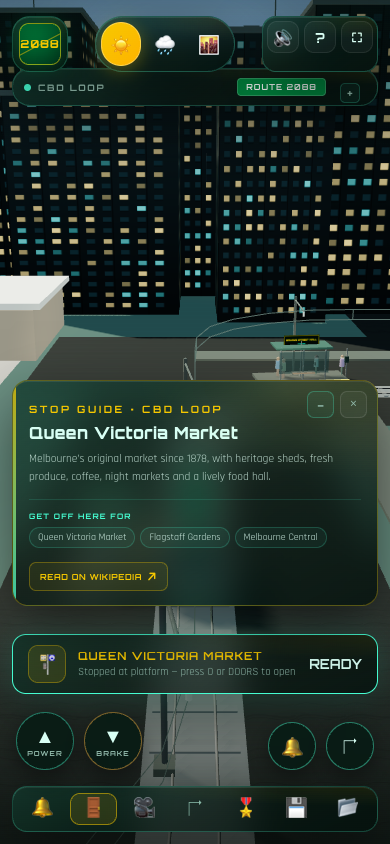
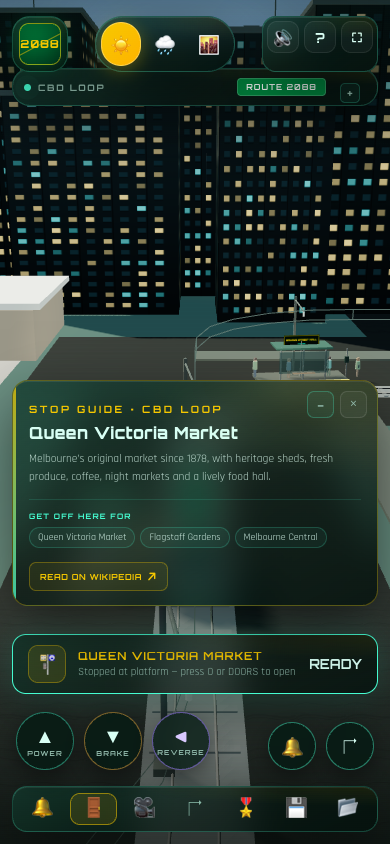
feat: separate brake from reverse with brake priority

diff --git a/index.html b/index.html
@@ -24,7 +24,7 @@
   <link rel="preconnect" href="https://fonts.googleapis.com" />
   <link rel="preconnect" href="https://fonts.gstatic.com" crossorigin />
   <link href="https://fonts.googleapis.com/css2?family=Orbitron:wght@500;700;900&family=Rajdhani:wght@400;500;600;700&display=swap" rel="stylesheet" />
-  <link rel="stylesheet" href="style.css?v=1.1.0" />
+  <link rel="stylesheet" href="style.css?v=1.1.1" />
 </head>
 <body>
   <div id="app">
@@ -219,6 +219,7 @@
       <div class="touch-pad" aria-label="Tram controls">
         <button class="touch-btn touch-throttle" data-key="ArrowUp" aria-label="Throttle">▲<small>POWER</small></button>
         <button class="touch-btn touch-brake" data-key="ArrowDown" aria-label="Brake">▼<small>BRAKE</small></button>
+        <button class="touch-btn touch-reverse" data-key="r" aria-label="Reverse">◀<small>REVERSE</small></button>
       </div>
       <div class="touch-side">
         <button class="touch-btn touch-bell" data-action="bell" aria-label="Ring bell">🔔</button>
@@ -272,7 +273,7 @@
         <div class="help-grid">
           <section>
             <h3>Drive</h3>
-            <p><kbd>W</kbd>/<kbd>↑</kbd> apply traction. <kbd>S</kbd>/<kbd>↓</kbd> brake, then reverse. The tram is rail-guided — it steers itself. Slow for curves or the wheels will sing.</p>
+            <p><kbd>W</kbd>/<kbd>↑</kbd> apply traction. <kbd>S</kbd>/<kbd>↓</kbd> brake to a stop and hold. Hold <kbd>R</kbd> or the <b>REVERSE</b> button to back up; the brake always overrides reverse. The tram is rail-guided — it steers itself. Slow for curves or the wheels will sing.</p>
             <h3>Serve stops</h3>
             <p>Each stop has a glowing platform marker. Roll in below 2 km/h inside the zone, then press <kbd>O</kbd> or the <b>Doors</b> toolbar button to release the doors. Passenger boarding, Myki beeps and the stop announcement follow. Press <kbd>O</kbd> again to close the doors before departing.</p>
             <h3>Bell</h3>
@@ -368,6 +369,6 @@
   <script src="https://cdnjs.cloudflare.com/ajax/libs/three.js/r128/three.min.js"></script>
   <script src="https://cdn.jsdelivr.net/npm/three@0.128.0/examples/js/controls/OrbitControls.js"></script>
   <script src="https://cdnjs.cloudflare.com/ajax/libs/cannon.js/0.6.2/cannon.min.js"></script>
-  <script src="script.js?v=1.1.0"></script>
+  <script src="script.js?v=1.1.1"></script>
 </body>
 </html>

diff --git a/script.js b/script.js
@@ -11,7 +11,7 @@
      Constants
      ------------------------------------------------------------------------ */
 
-  const VERSION = '1.1.0';
+  const VERSION = '1.1.1';
   const SAVE_KEY = 'tramtracker_2088_v1';
   const SAVE_FILE = 'tramtracker_save.json';
   const APP_NAME = 'TramTracker 2088';
@@ -1408,7 +1408,7 @@
       if (tag === 'INPUT' || tag === 'TEXTAREA' || tag === 'SELECT') return;
 
       const key = e.key;
-      const drivingKeys = ['ArrowUp', 'ArrowDown', 'ArrowLeft', 'ArrowRight', ' ', 'w', 'a', 's', 'd', 'W', 'A', 'S', 'D'];
+      const drivingKeys = ['ArrowUp', 'ArrowDown', 'ArrowLeft', 'ArrowRight', ' ', 'w', 'a', 's', 'd', 'r', 'W', 'A', 'S', 'D', 'R'];
       if (drivingKeys.includes(key)) e.preventDefault();
 
       if (this.hookActive) {
@@ -4952,14 +4952,25 @@
 
       const doorsLocked = this.trip.doorState !== 'closed';
       const throttle = !doorsLocked && (this.keys.ArrowUp || this.keys.w || this.keys.W);
-      const brake = this.keys.ArrowDown || this.keys.s || this.keys.S || doorsLocked;
+      const braking = this.keys.ArrowDown || this.keys.s || this.keys.S;
+      const reverse = !doorsLocked && !braking && (this.keys.r || this.keys.R);
+      const brake = braking || doorsLocked;
       const handbrake = this.keys[' '];
 
       let speed = this.tram.speed;
       if (throttle) speed += 1.95 * dt;
-      if (brake) speed -= (speed > 0 ? 4.6 : 1.7) * dt;
+      if (brake) {
+        // Brake toward zero from either direction; it never pushes into reverse.
+        const rate = Math.abs(speed) > 0.1 ? 4.6 : 1.7;
+        speed -= Math.sign(speed) * rate * dt;
+        if (Math.abs(speed) < 0.06) speed = 0;
+      } else if (reverse) {
+        // Reverse is a separate control: shed forward speed first, then back up.
+        if (speed > 0.05) speed -= 4.6 * dt;
+        else speed -= 1.45 * dt;
+      }
       if (handbrake) speed *= Math.pow(0.015, dt);
-      if (!throttle && !brake && !handbrake) speed *= Math.pow(0.55, dt);
+      if (!throttle && !brake && !reverse && !handbrake) speed *= Math.pow(0.55, dt);
       speed = clamp(speed, this.tram.maxReverse, this.tram.maxSpeed);
       if (Math.abs(speed) < 0.02) speed = 0;
       if (doorsLocked) {

diff --git a/style.css b/style.css
@@ -764,6 +764,7 @@ kbd {
 }
 .touch-throttle { border-color: rgba(70, 255, 211, 0.4); }
 .touch-brake { border-color: rgba(255, 179, 64, 0.45); }
+.touch-reverse { border-color: rgba(157, 123, 255, 0.55); color: #d9c8ff; }
 .touch-bell, .touch-hook { width: 54px; height: 54px; font-size: 18px; }
 
 /* --------------------------------------------------------------------------

diff --git a/STATE.md b/STATE.md
@@ -4,8 +4,8 @@
 | --- | --- |
 | Project | TramTracker 2088 — Melbourne Yarra Trams 3D Simulator (`tramtracker-2088`) |
 | Started | 2026-11-01 16:59:53 UTC |
-| Packaged | 2026-11-01 22:11:00 UTC |
-| Duration | **5h 10m 37s** (18,637 seconds) |
+| Packaged | 2026-11-01 22:44:30 UTC |
+| Duration | **5h 44m 25s** (20,665 seconds) |
 | Harness | OpenCode 2.2.5 |
 | Model | DeepSeek V4.1 Flash (`opencode-go/deepseek-v4.1-flash`) |
 | Session | `ses_e67f25924ffeV87ZCfDRsei45y` |
@@ -16,15 +16,15 @@
 
 | Metric | Tokens |
 | --- | ---: |
-| Input | 1,289,744 |
-| Output | 305,607 |
-| Reasoning | 451,714 |
-| **Total (input + output + reasoning)** | **2,047,065** |
-| Cache read | 219,630,976 |
+| Input | 1,321,705 |
+| Output | 316,059 |
+| Reasoning | 456,698 |
+| **Total (input + output + reasoning)** | **2,094,462** |
+| Cache read | 227,545,472 |
 | Cache write | 1,190 |
-| Total including cache | 221,678,041 |
+| Total including cache | 229,639,934 |
 
-> Snapshot taken from the OpenCode session record when the project was packaged at 2026-11-01 22:11:00 UTC. It includes the original build, track/cab/doors/announcement/CBD work, stop guides, city ambience, passenger manifests, stop requests, tourist stops, the 1.35 km St Kilda Road/Shrine extension with 21 respaced stops, mobile panel controls and the door interlock. The final state-file commit, push, Pages re-verification and closing response happen outside this snapshot, so the live session totals will be marginally higher. Total cost reported by the session: **$0.00**.
+> Snapshot taken from the OpenCode session record when the project was packaged at 2026-11-01 22:44:30 UTC. It includes the original build, track/cab/doors/announcement/CBD work, stop guides, city ambience, passenger manifests, stop requests, tourist stops, the 1.35 km St Kilda Road/Shrine extension with 21 respaced stops, mobile panel controls and the door interlock. The final state-file commit, push, Pages re-verification and closing response happen outside this snapshot, so the live session totals will be marginally higher. Total cost reported by the session: **$0.00**.
 
 ## Revisions after the first package
 
@@ -35,7 +35,8 @@
 5. **Stop guides, soundscape and names** — added nearby-place/Wikipedia stop cards, richer layered city ambience, actual Melbourne stop names and double-faced stop signs.
 6. **Passengers and tourist stops** — added destination manifests, pull-the-cord stop requests, alighting animations and more tourist stops.
 7. **1.35 km Shrine extension** — rebuilt the loop around St Kilda Road, Kings Domain and the Shrine of Remembrance, respaced all 21 stops to at least 30 m, added two tram bridges and kept buildings clear of the track.
-8. **Mobile panels and door interlock** — added minimizable telemetry/stop-guide panels and a persistent door warning that blocks traction until the doors close. Self-tests increased to 32 checks.
+8. **Mobile panels and door interlock** — added minimizable telemetry/stop-guide panels and a persistent door warning that blocks traction until the doors close.
+9. **Separate brake and reverse** — braking now stops and holds at zero; reverse is its own `R`/REVERSE control, and the brake always takes priority over reverse. Self-tests remain at 32 checks.
 
 ## What was built
 
@@ -51,7 +52,7 @@ A complete, self-contained 3D tram simulator in three modular source files plus 
 - **Rails and catenary** — 1.35 km closed CBD and Shrine loop, two embedded steel rails, sleepers, contact and messenger wires, droppers and poles.
 - **W-Class / Cyber-Tram 2088** — green hull, cream roof, gold waistline, window band, destination signs, headlights, bogies, pantograph, neon underglow and a bell.
 - **Cannon.js physics** — 12,000 kg dynamic tram body, static collision volumes, contact events, rail-following velocity, acceleration, braking, curve drag and impact penalties.
-- **Keyboard/touch controls** — `W`/`↑` traction, `S`/`↓` brake and reverse; rail guidance is automatic; mouse/touch orbit camera; `C` recentre.
+- **Keyboard/touch controls** — `W`/`↑` traction, `S`/`↓` brake to a stop, and a separate `R`/REVERSE control; the brake overrides reverse. Rail guidance is automatic; mouse/touch orbit camera; `C` recentre.
 - **First-person driver's cab** — `V` toggles between chase and cab views, with a cockpit dashboard, drag-to-look, speed FOV, head sway, curve lean and rain wipers.
 - **Manual doors and announcements** — `O` or **Doors** opens/closes the sliding doors at a platform, with chimes, hiss, a persistent door interlock warning and spoken Melbourne-style stop/arrival/door announcements and subtitles.
 - **Tram bell** — `B` synthesises the double-ding bell.
@@ -80,10 +81,10 @@ A complete, self-contained 3D tram simulator in three modular source files plus 
 
 | File | Size |
 | --- | ---: |
-| `index.html` | 19,181 bytes · 373 lines |
-| `style.css` | 58,950 bytes · 2,286 lines |
-| `script.js` | 295,161 bytes · 6,808 lines |
-| `README.md` | 25,771 bytes · 474 lines |
+| `index.html` | 19,398 bytes · 374 lines |
+| `style.css` | 59,026 bytes · 2,287 lines |
+| `script.js` | 295,685 bytes · 6,819 lines |
+| `README.md` | 25,963 bytes · 476 lines |
 | `screenshot.png` | 893 KB |
 | `screenshot-rain.png` | 1.16 MB |
 | `screenshot-twilight.png` | 1.09 MB |

diff --git a/README.md b/README.md
@@ -164,6 +164,7 @@ On a phone the telemetry panel and stop guide can cover a lot of the road. Both 
 - **Twenty-one-stop tourist loop** — Flinders Street, St Paul's, Hosier Lane, Arts Precinct, Shrine of Remembrance, Southbank, Federation Square, Collins Street, Old Treasury, Parliament, Princess Theatre, Fitzroy Gardens, RMIT, Carlton Gardens, Melbourne Museum, Melbourne University, Melbourne Central, Queen Victoria Market, Bourke Street Mall, Chinatown and Town Hall.
 - **Tourist landmarks** — Parliament House, RMIT, the Princess Theatre, Fitzroy and Carlton gardens, the Old Treasury, Melbourne Museum, Queen Victoria Market, Melbourne Central's shot tower, Town Hall, Hosier Lane, St Paul's Cathedral and the Shrine of Remembrance.
 - **Door interlock** — traction is blocked with a pulsing warning until the doors are fully closed.
+- **Separate brake and reverse** — the brake stops and holds at zero, while reverse is a dedicated `R` / REVERSE control; the brake overrides it.
 - **Minimizable mobile panels** — collapse the telemetry and stop guide to see the road.
 - Follow camera with **mouse orbit and zoom**, plus a recentre key.
 
@@ -208,7 +209,7 @@ The city bed follows the weather: birds in classic sun, more wind and rain in a 
 
 ### UI
 
-Yarra Trams green and gold meets a cyberpunk neon HUD: glassmorphic telemetry, conic-gradient speedometer, live route minimap, next-stop guidance, toasts, a driver's manual, route badges, and responsive layouts for desktop, tablet and phone. Touch power/brake/bell/hook controls appear on small screens.
+Yarra Trams green and gold meets a cyberpunk neon HUD: glassmorphic telemetry, conic-gradient speedometer, live route minimap, next-stop guidance, toasts, a driver's manual, route badges, and responsive layouts for desktop, tablet and phone. Touch power/brake/reverse/bell/hook controls appear on small screens.
 
 ### Persistence
 
@@ -223,7 +224,8 @@ Yarra Trams green and gold meets a cyberpunk neon HUD: glassmorphic telemetry, c
 | Action | Keyboard | Touch |
 | --- | --- | --- |
 | Apply traction | `W` / `↑` | **POWER** pad |
-| Brake / reverse | `S` / `↓` | **BRAKE** pad |
+| Brake to a stop | `S` / `↓` | **BRAKE** pad |
+| Reverse | `R` | **REVERSE** pad |
 | Ring bell | `B` | 🔔 |
 | Hook Turn Challenge | `G` | ↱ |
 | Open / close doors | `O` | **DOORS** toolbar button |
